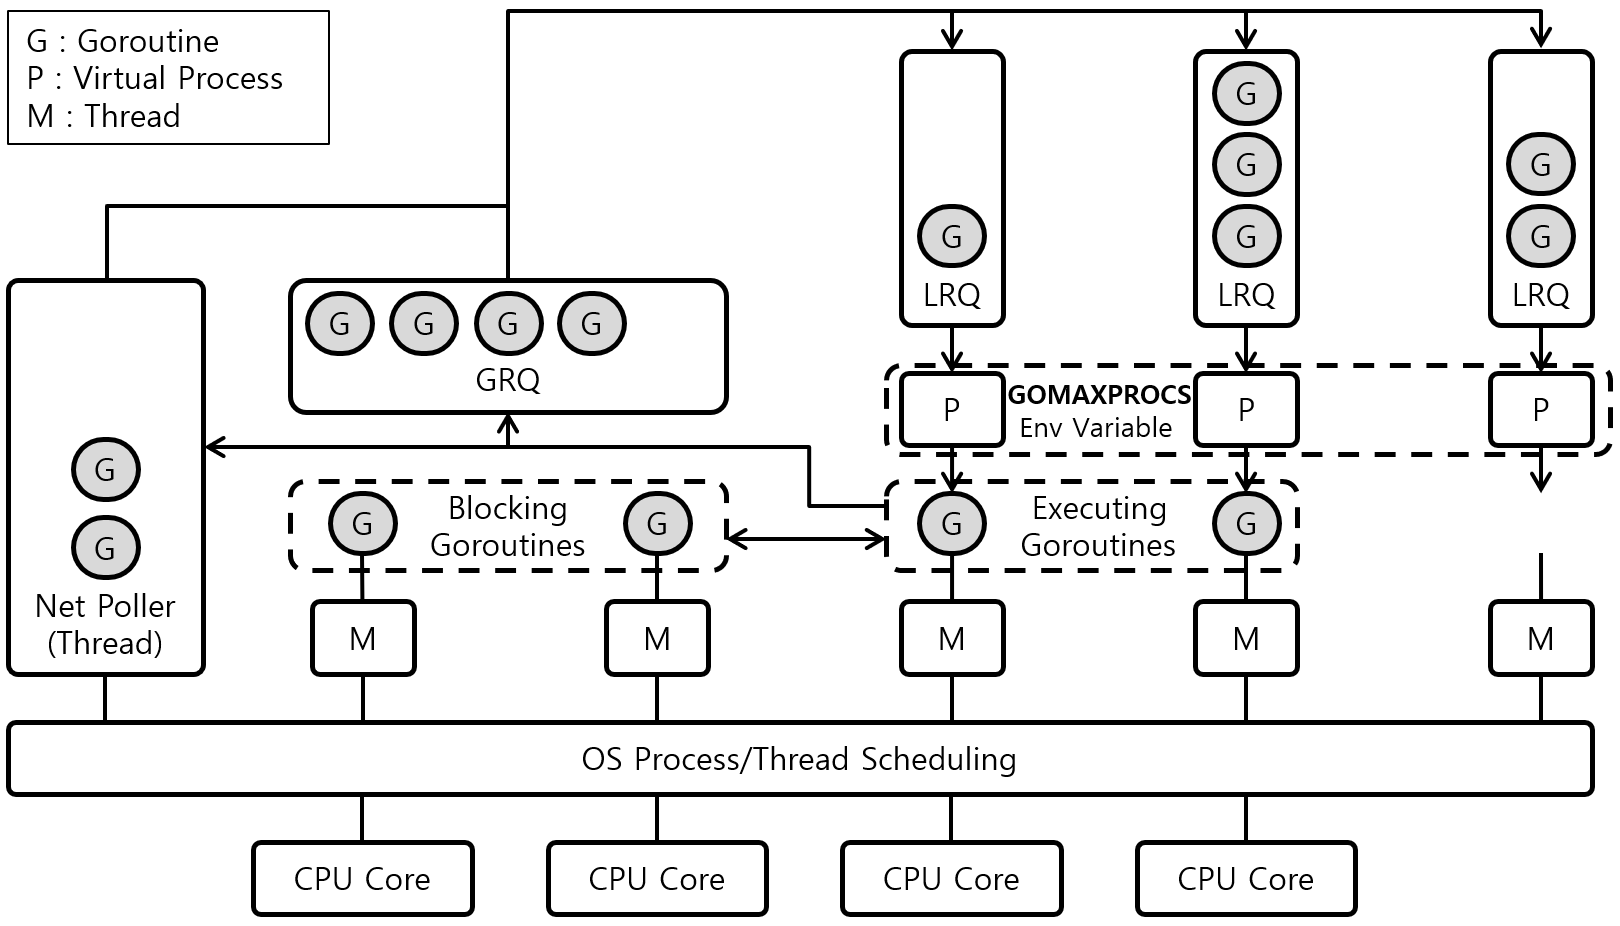
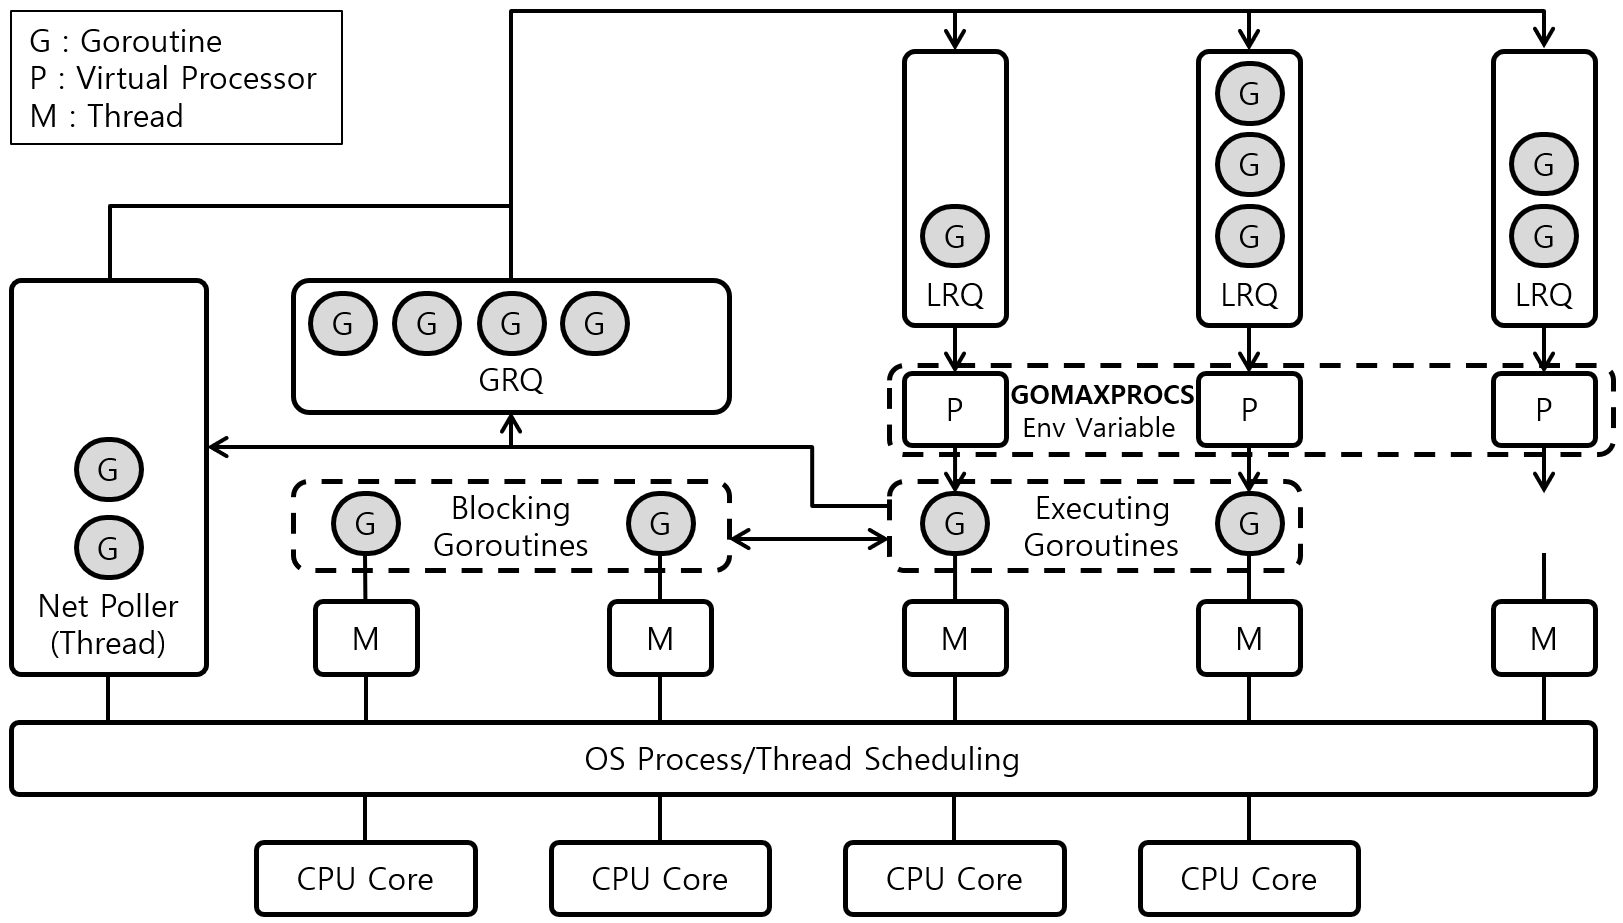
Update

diff --git a/_docs/theory_analysis/Golang_Scheduler.md b/_docs/theory_analysis/Golang_Scheduler.md
@@ -13,6 +13,12 @@ Golang의 Scheduler를 분석한다.
 
 ![[그림 1] Golang Scheduler]({{site.baseurl}}/images/theory_analysis/Golang_Scheduler/Golang_Scheduler.PNG){: width="700px"}
 
+[그림 1]은 Golang의 Scheduler 및 Golang의 Scheduler와 연관된 Component를 나타내고 있다. 크게 **G (Goroutine), P (Processor), M (Thread)** 3가지의 Component로 구성되어 있다. 여기서 Process는 실제 CPU Core의 개수가 아닌 가상의 Processor (Virtual CPU Core)를 의미한다. Golang의 Scheduler는 각 Component들을 합쳐서 **GMP Scheduler**라고도 불린다.
+
+[그림 1]에서는 4개의 **CPU Core**가 존재하고 있으며 **OS Scheduler**에 의해서 다수의 Thread가 Scheduling되어 동작하고 있는 모습을 나타내고 있다. **Net Poller**는 Network를 처리하는 별도의 Thread를 의미한다. **GRQ (Global Run Queue)**는 의미 그대로 전역 Goroutine Queue 역활을 수행하며, **LRQ (Local Run Queue)**는 의미 그대로 지역 Goroutine Queue 역활을 수행한다.
+
+#### 1.2. Fairness
+
 ### 2. 참조
 
 * [https://www.ardanlabs.com/blog/2018/08/scheduling-in-go-part2.html](https://www.ardanlabs.com/blog/2018/08/scheduling-in-go-part2.html)
